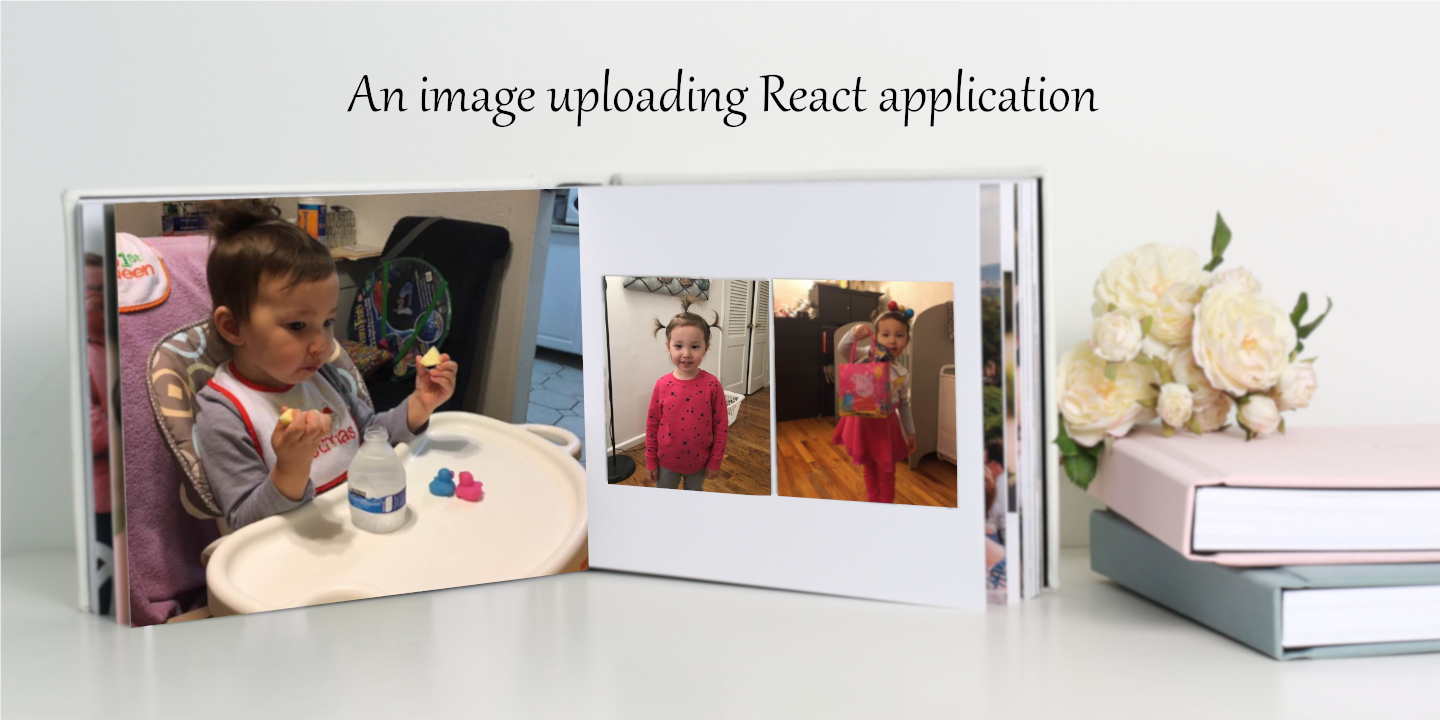
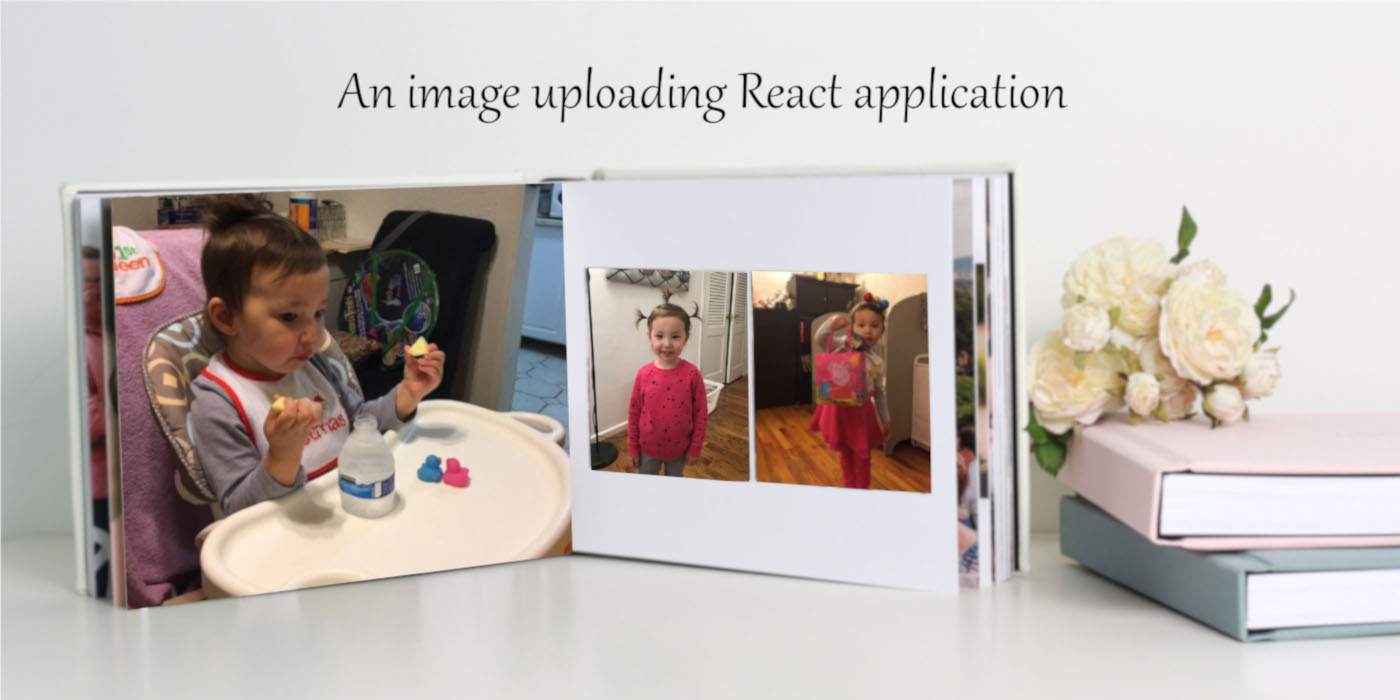
styling update

Changed region(s): [[0.2457, 0.12, 0.7679, 0.18]]

diff --git a/zoe-website/src/App.js b/zoe-website/src/App.js
@@ -40,22 +40,26 @@ function App() {
 
               <h1 class="title" >Zoe's Album</h1>
 
-              <div>
-                <Link to='/login' onClick ={() => localStorage.clear()} style={!localStorage.getItem ('token') ? {display: 'none'} : {color: "#313D5A"}}>
-                <Button my={1.5} mx={0.5} variant="contained" color="primary" onClick ={() => window.location.reload(true)}>Log out</Button>
-                </Link>
-              </div>
-              
-              <div>
-                <Link to='/register' style={!localStorage.getItem('token') ? {color: "#313D5A"} : { display: 'none' }}>
-                <Button my={1.5} mx={0.5} variant="contained" color="primary">Register</Button>
-                </Link>
-              </div>
-              
-              <div>
-                <Link to='/login' style={!localStorage.getItem('token') ? {color: "#313D5A"} : { display: 'none' }}>
-                <Button my={1.5} mx={0.5} variant="contained" color="primary">Login</Button>
-                </Link>
+              <div class="navButton">
+
+                <div>
+                  <Link to='/login' onClick ={() => localStorage.clear()} style={!localStorage.getItem ('token') ? {display: 'none'} : {color: "#313D5A"}}>
+                  <Button my={3} ml={2} variant="contained" color="primary" onClick ={() => window.location.reload(true)}>Log out</Button>
+                  </Link>
+                </div>
+                
+                <div>
+                  <Link to='/register' style={!localStorage.getItem('token') ? {color: "#313D5A"} : { display: 'none' }}>
+                  <Button my={3} mx={0.5} variant="contained" color="primary">Register</Button>
+                  </Link>
+                </div>
+                
+                <div>
+                  <Link to='/login' style={!localStorage.getItem('token') ? {color: "#313D5A"} : { display: 'none' }}>
+                  <Button my={3} mx={0.5} variant="contained" color="primary">Login</Button>
+                  </Link>
+                </div>
+
               </div>
               
             </div>
@@ -63,7 +67,7 @@ function App() {
             <Route path='/register' component={Register} />
             <Route path='/login' component={Login} />
 
-            <img src = {hPicture}/>
+            <img class="mainImage" src = {hPicture}/>
 
         </div>
 

diff --git a/zoe-website/src/App.css b/zoe-website/src/App.css
@@ -1,41 +1,11 @@
-.App {
-  text-align: center;
+* {
+  box-sizing: border-box;
   
 }
 
-.App-logo {
-  height: 40vmin;
-  pointer-events: none;
-}
-
-@media (prefers-reduced-motion: no-preference) {
-  .App-logo {
-    animation: App-logo-spin infinite 20s linear;
-  }
-}
-
-.App-header {
-  background-color: #282c34;
-  min-height: 100vh;
-  display: flex;
-  flex-direction: column;
-  align-items: center;
-  justify-content: center;
-  font-size: calc(10px + 2vmin);
-  color: white;
-}
-
-.App-link {
-  color: #61dafb;
-}
-
-@keyframes App-logo-spin {
-  from {
-    transform: rotate(0deg);
-  }
-  to {
-    transform: rotate(360deg);
-  }
+.App {
+  text-align: center;
+  
 }
 
 .logButtonO {
@@ -53,15 +23,16 @@
 .dash {
   display: flex;
   flex-direction: row;
-  margin-left: 8%;
+  padding-left: 2%;
+  
 }
 
 .title {
   align-content: flex-start; 
-  margin-right: 60%;
   margin-top: 1%;
   margin-bottom: 1%;
   font-family: Georgia, 'Times New Roman', Times, serif;
+  
 }
 
 .registerDiv {
@@ -136,3 +107,76 @@
   flex-direction: column;
   align-items: center;
 }
+
+.mainImage {
+
+  width: 100%;
+  
+}
+
+.upImage {
+    
+  max-width: 100%;
+  
+}
+
+.navButton {
+
+  display: flex;
+  flex-direction: row;
+  justify-content: flex-end;
+  width: 80%;
+  
+}
+
+@media(max-width: 435px){
+
+  .title {
+    height: 20%;
+    margin-top: 5%;
+    margin-bottom: 5%;
+    margin-left: 5%;
+    display: flex;
+    align-items: center;
+    /* justify-content: center; */
+    font-size:28px;
+    width:50%;
+    
+   }
+
+  .title3 {
+   font-size:25px
+  }
+
+  .allList {
+    font-size:20px
+   }
+
+   .title4 {
+    font-size:20px
+  }
+
+  .title5 {
+    font-size:13px
+  }
+
+  .dash {
+    display: flex;
+    flex-direction: row;
+    align-items: center;
+    padding-left: 2%;
+    
+    
+  }
+
+  .navButton {
+
+    display: flex;
+    flex-direction: row;
+    justify-content: flex-end;
+    width: 40%;
+    
+  }
+
+}
+

diff --git a/zoe-website/src/components/AllLists.js b/zoe-website/src/components/AllLists.js
@@ -139,7 +139,7 @@ function AllLists(props) {
                     if (url == dPicture) {
                         return (
                          <div>
-                             <img src = {url}/>
+                             <img class="mainImage" src = {url}/>
                          </div>
                         )
                     } else {
@@ -161,7 +161,7 @@ function AllLists(props) {
             </div>
 
             <h3 class="title4">Upload pictures here</h3>
-            <h7>*Upload only jpeg, jpg, png, gif file under size 5MB</h7>
+            <h7 class="title5">*Upload only jpeg, jpg, png, gif file under size 5MB</h7>
             
             <input class="margin" type="file" onChange={fileSelectHandler}/>
 

diff --git a/zoe-website/src/components/SinglePicture.js b/zoe-website/src/components/SinglePicture.js
@@ -55,7 +55,7 @@ function SinglePicture(props) {
 
         <div>
 
-            <img src = {image_url}/>
+            <img class="upImage" src = {image_url}/>
             <h2 class="allList">{title}</h2>
             <h3 class="allList">{descript}</h3>
 
